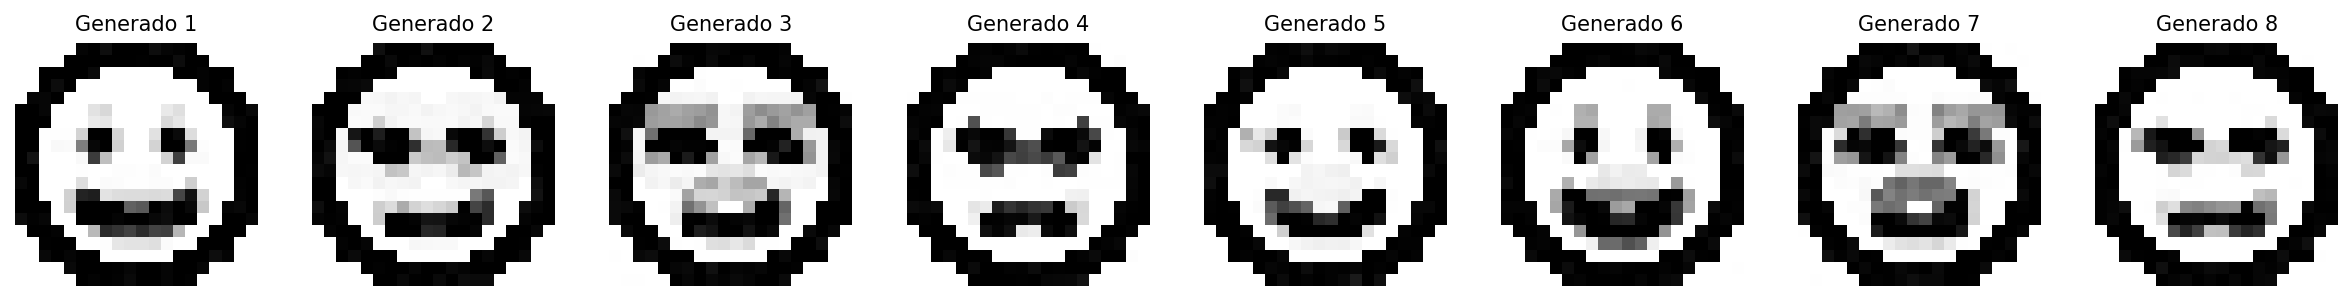
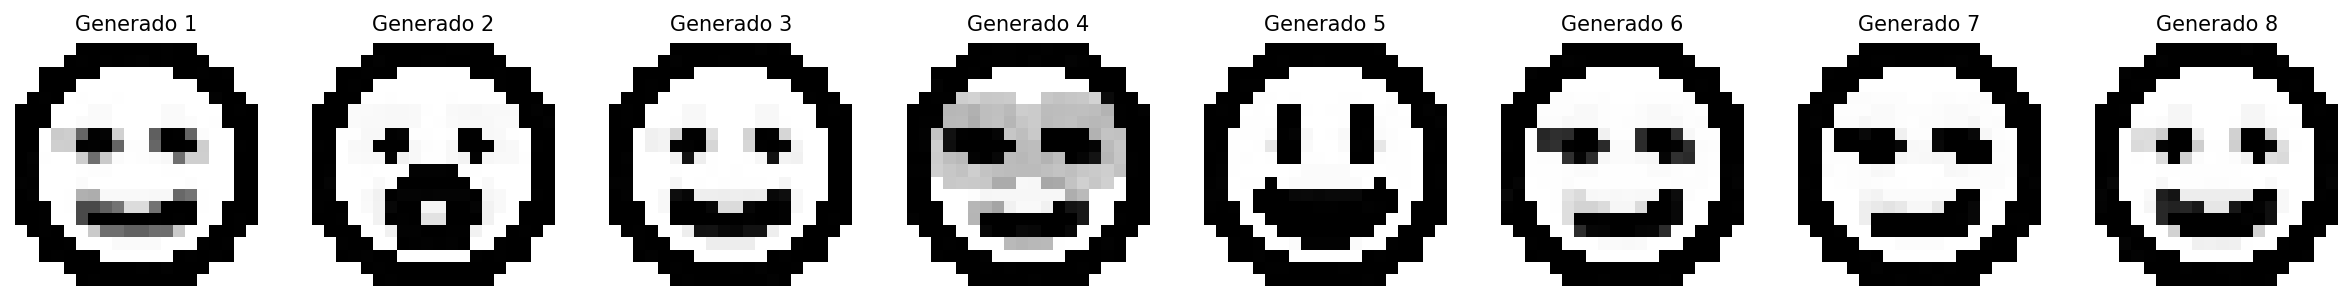
changes in vae to show new results.

diff --git a/tp5_deep_learning/vae/main_vae.py b/tp5_deep_learning/vae/main_vae.py
@@ -41,6 +41,42 @@ def add_noise(X, noise_std=0.3):
     return X_noisy
 
 
+def visualize_original_icons(X, image_shape, results_dir='results'):
+    """
+    Visualiza todos los iconos originales antes del entrenamiento.
+    """
+    n_icons = X.shape[0]
+    n_cols = min(8, n_icons)
+    n_rows = (n_icons + n_cols - 1) // n_cols
+    
+    fig, axes = plt.subplots(n_rows, n_cols, figsize=(n_cols * 2, n_rows * 2))
+    if n_rows == 1:
+        axes = axes.reshape(1, -1)
+    if n_cols == 1:
+        axes = axes.reshape(-1, 1)
+    
+    for i in range(n_icons):
+        row = i // n_cols
+        col = i % n_cols
+        
+        img = X[i].reshape(image_shape[1], image_shape[0])
+        axes[row, col].imshow(img, cmap='gray', vmin=0, vmax=1)
+        axes[row, col].axis('off')
+        axes[row, col].set_title(f'Icon {i+1}', fontsize=10)
+    
+    # Ocultar ejes sobrantes
+    for i in range(n_icons, n_rows * n_cols):
+        row = i // n_cols
+        col = i % n_cols
+        axes[row, col].axis('off')
+    
+    plt.tight_layout()
+    output_path = os.path.join(results_dir, 'original_icons.png')
+    plt.savefig(output_path, dpi=150, bbox_inches='tight')
+    print(f"Iconos originales guardados en '{output_path}'")
+    plt.close()
+
+
 def visualize_reconstructions(vae, X, image_shape, results_dir='results', n_samples=8):
     n_samples = min(n_samples, X.shape[0])
     X_sample = X[:n_samples]
@@ -67,7 +103,7 @@ def visualize_reconstructions(vae, X, image_shape, results_dir='results', n_samp
     output_path = os.path.join(results_dir, 'vae_reconstructions.png')
     plt.savefig(output_path, dpi=150, bbox_inches='tight')
     print(f"Reconstrucciones guardadas en '{output_path}'")
-    plt.show()
+    plt.close()  # plt.show()
 
 
 def visualize_denoising(vae, X, image_shape, results_dir='results', noise_std=0.3, n_samples=8):
@@ -109,7 +145,7 @@ def visualize_denoising(vae, X, image_shape, results_dir='results', noise_std=0.
     output_path = os.path.join(results_dir, f'vae_denoising_std_{noise_std}.png')
     plt.savefig(output_path, dpi=150, bbox_inches='tight')
     print(f"Denoising guardado en '{output_path}'")
-    plt.show()
+    plt.close()  # plt.show()
 
 
 def visualize_latent_space(vae, X, results_dir='results'):
@@ -134,7 +170,47 @@ def visualize_latent_space(vae, X, results_dir='results'):
     output_path = os.path.join(results_dir, 'vae_latent_space.png')
     plt.savefig(output_path, dpi=150, bbox_inches='tight')
     print(f"Espacio latente guardado en '{output_path}'")
-    plt.show()
+    plt.close()  # plt.show()
+
+
+def visualize_manifold(vae, image_shape, results_dir='results', n_grid=15):
+    """
+    Visualiza el manifold muestreando un grid del espacio latente 2D.
+    Cada punto del grid se decodifica para ver qué genera el VAE.
+    """
+    # Crear un grid en el espacio latente
+    # Usar un rango que cubra la distribución normal estándar
+    grid_range = 3  # ±3 desviaciones estándar cubre ~99.7% de N(0,1)
+    grid_x = np.linspace(-grid_range, grid_range, n_grid)
+    grid_y = np.linspace(-grid_range, grid_range, n_grid)
+    
+    # Crear figura
+    figure = np.zeros((image_shape[1] * n_grid, image_shape[0] * n_grid))
+    
+    # Para cada punto del grid, decodificar
+    for i, yi in enumerate(grid_y):
+        for j, xi in enumerate(grid_x):
+            # Punto en el espacio latente
+            z_sample = np.array([[xi, yi]])
+            
+            # Decodificar usando el método decode del VAE
+            x_decoded, _ = vae.decode(z_sample)
+            
+            # Reshape y colocar en la figura
+            digit = x_decoded[0].reshape(image_shape[1], image_shape[0])
+            figure[i * image_shape[1]: (i + 1) * image_shape[1],
+                   j * image_shape[0]: (j + 1) * image_shape[0]] = digit
+    
+    # Visualizar
+    plt.figure(figsize=(12, 12))
+    plt.imshow(figure, cmap='gray', vmin=0, vmax=1)
+    plt.axis('off')
+    plt.title(f'Manifold del VAE - Grid {n_grid}x{n_grid} en espacio latente', fontsize=14)
+    plt.tight_layout()
+    output_path = os.path.join(results_dir, 'vae_manifold.png')
+    plt.savefig(output_path, dpi=150, bbox_inches='tight')
+    print(f"Manifold guardado en '{output_path}'")
+    plt.close()  # plt.show()
 
 
 def generate_new_samples(vae, image_shape, results_dir='results', n_samples=8):
@@ -169,7 +245,7 @@ def generate_new_samples(vae, image_shape, results_dir='results', n_samples=8):
     output_path = os.path.join(results_dir, 'vae_generated_samples.png')
     plt.savefig(output_path, dpi=150, bbox_inches='tight')
     print(f"Muestras generadas guardadas en '{output_path}'")
-    plt.show()
+    plt.close()  # plt.show()
 
 
 def interpolate_between_icons(vae, X, image_shape, results_dir='results', idx1=0, idx2=1, n_steps=10):
@@ -196,7 +272,7 @@ def interpolate_between_icons(vae, X, image_shape, results_dir='results', idx1=0
     output_path = os.path.join(results_dir, f'vae_interpolation_{idx1+1}_to_{idx2+1}.png')
     plt.savefig(output_path, dpi=150, bbox_inches='tight')
     print(f"Interpolación guardada en '{output_path}'")
-    plt.show()
+    plt.close()  # plt.show()
 
 
 def plot_training_history(vae, results_dir='results'):
@@ -214,7 +290,7 @@ def plot_training_history(vae, results_dir='results'):
     output_path = os.path.join(results_dir, 'vae_training_history.png')
     plt.savefig(output_path, dpi=150, bbox_inches='tight')
     print(f"Historial de entrenamiento guardado en '{output_path}'")
-    plt.show()
+    plt.close()  # plt.show()
 
 
 def main():
@@ -278,6 +354,9 @@ def main():
     print("GENERANDO VISUALIZACIONES")
     print("=" * 60)
     
+    print("\n0. Iconos originales...")
+    visualize_original_icons(X, image_shape, results_dir)
+    
     print("\n1. Historial de entrenamiento...")
     plot_training_history(vae, results_dir)
     
@@ -286,7 +365,7 @@ def main():
     
     print("\n3. Denoising (Capacidad Generativa)...")
     # Probar con diferentes niveles de ruido
-    noise_levels = config.get('noise_levels', [0.2, 0.4, 0.6])
+    noise_levels = config.get('noise_levels', [0.2, 0.8, 0.9])
     for noise_std in noise_levels:
         print(f"   - Ruido σ={noise_std}")
         visualize_denoising(vae, X, image_shape, results_dir, noise_std=noise_std, n_samples=min(8, len(X)))
@@ -294,6 +373,8 @@ def main():
     print("\n4. Espacio latente...")
     if latent_dim == 2:
         visualize_latent_space(vae, X, results_dir)
+        print("\n4b. Manifold del espacio latente...")
+        visualize_manifold(vae, image_shape, results_dir, n_grid=15)
     else:
         print(f"  Espacio latente tiene dimensión {latent_dim}, se necesita dimensión 2 para visualizar")
     
